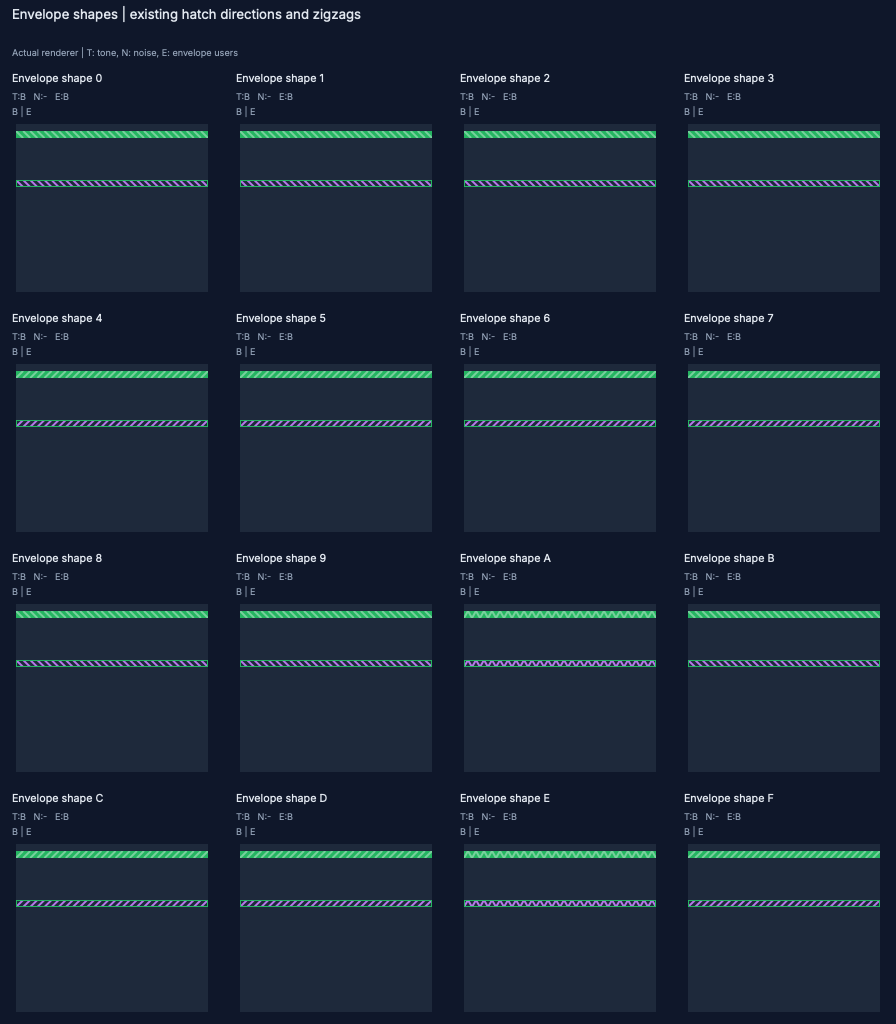
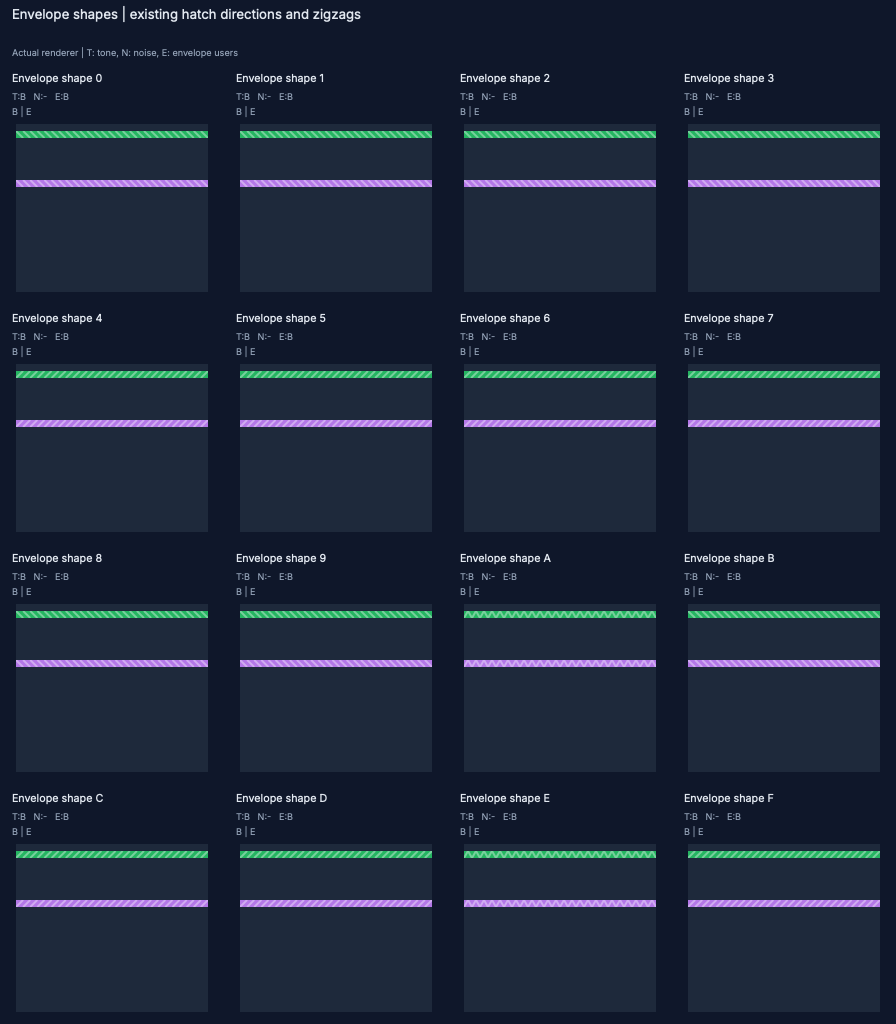
Fill the envelope pitch note and its legend swatch with hatched envelope color

diff --git a/src/gui/timeline/PsgClipComponent.test.cpp b/src/gui/timeline/PsgClipComponent.test.cpp
@@ -225,7 +225,14 @@ public:
                 if (! noteBounds.contains(x, y))
                     expect(unrelatedNoise.getPixelAt(x, y).getFloatAlpha() <= 0.3f);
 
-        beginTest("Noise fringe stops before a neighboring hollow envelope note");
+        const auto hasEnvelopeFill = [](const Image& image, int y) {
+            for (int x = 0; x < image.getWidth(); ++x)
+                if (image.getPixelAt(x, y) == Colors::PSG::Env)
+                    return true;
+            return false;
+        };
+
+        beginTest("Noise fringe stops before a neighboring envelope note");
         auto neighbors = withTones(1, 0, 2);
         neighbors.frames[0].setTonePeriod(0, 512);
         neighbors.frames[0].setEnvelopePeriod(34);
@@ -234,7 +241,7 @@ public:
         const auto noisyNeighbors = renderData(neighbors);
         int envelopeRows = 0;
         for (int y = 0; y < plainNeighbors.getHeight(); ++y) {
-            if (plainNeighbors.getPixelAt(0, y) != Colors::PSG::B)
+            if (! hasEnvelopeFill(plainNeighbors, y))
                 continue;
             ++envelopeRows;
             for (int x = 0; x < plainNeighbors.getWidth(); ++x)
@@ -270,7 +277,7 @@ public:
         const auto noNoiseDual = renderData(withTones(2, 0, 2));
         int envTop = 300, envBottom = 0;
         for (int y = 150; y < 300; ++y) {
-            if (noNoiseDual.getPixelAt(0, y) == Colors::PSG::B) {
+            if (hasEnvelopeFill(noNoiseDual, y)) {
                 envTop = jmin(envTop, y);
                 envBottom = y + 1;
             }
@@ -355,27 +362,31 @@ public:
         expect(hasEnvelopeColor, "Envelope pitch uses the shared envelope color");
         expect(hasChannelColor, "Envelope-controlled tone keeps channel B's color");
 
-        beginTest("Envelope-only channel B retains a green outline around envelope-colored hatching");
-        const uZX::PsgData envelopeOnlyData {
+        beginTest("The envelope note is envelope-colored whichever channels use it");
+        const auto envelopeB = renderData({
             {{{uZX::PsgRegType::Mixer, 0x3f}, {uZX::PsgRegType::VolumeB, 16},
               {uZX::PsgRegType::EnvelopePeriodFine, 100}, {uZX::PsgRegType::EnvelopeShape, 8}}},
             {50.0, 1}
-        };
-        const auto envelopeOnlyImage = renderData(envelopeOnlyData);
-        bool hasOutline = false, hasHatching = false;
-        for (int y = 0; y < envelopeOnlyImage.getHeight(); ++y) {
-            const auto edge = envelopeOnlyImage.getPixelAt(0, y);
-            if (! edge.isTransparent()) {
-                expect(edge == Colors::PSG::B, "The envelope note outline identifies channel B");
-                hasOutline = true;
+        });
+        const auto envelopeAC = renderData({
+            {{{uZX::PsgRegType::Mixer, 0x3f}, {uZX::PsgRegType::VolumeA, 16}, {uZX::PsgRegType::VolumeC, 16},
+              {uZX::PsgRegType::EnvelopePeriodFine, 100}, {uZX::PsgRegType::EnvelopeShape, 8}}},
+            {50.0, 1}
+        });
+        bool hasFill = false, hasHatching = false;
+        for (int y = 0; y < envelopeB.getHeight(); ++y) {
+            for (int x = 0; x < envelopeB.getWidth(); ++x) {
+                const auto color = envelopeB.getPixelAt(x, y);
+                hasFill = hasFill || color == Colors::PSG::Env;
+                hasHatching = hasHatching || color.getGreen() > Colors::PSG::Env.getGreen() + 16;
             }
-            for (int x = 1; x < envelopeOnlyImage.getWidth() - 1; ++x)
-                hasHatching = hasHatching || envelopeOnlyImage.getPixelAt(x, y) == Colors::PSG::Env;
         }
-        expect(hasOutline, "Tone-off must not hide envelope channel ownership");
-        expect(hasHatching, "Envelope hatching keeps the envelope color");
+        expect(hasFill, "The envelope note is filled with the envelope color");
+        expect(hasHatching, "The envelope note keeps its brighter hatching");
+        expect(equalImages(envelopeB, envelopeAC),
+               "Owners show on their own notes, not as a tint of the envelope note");
 
-        beginTest("Legend shows A/B/C colors and a padded outlined envelope swatch");
+        beginTest("Legend shows A/B/C colors and a padded filled envelope swatch");
         const auto header = render(0x3f, 0, 0, 0, true);
         const std::array<Colour, 3> colors {Colors::PSG::A, Colors::PSG::B, Colors::PSG::C};
         for (int ch = 0; ch < 3; ++ch) {
@@ -383,21 +394,19 @@ public:
             expect(header.getPixelAt(x, 14) == colors[static_cast<size_t>(ch)]);
             expect(header.getPixelAt(x, 15).isTransparent());
         }
-        expect(header.getPixelAt(42, 14) == Colors::PSG::Env, "E outline matches the envelope pitch color");
         expect(header.getPixelAt(42, 15).isTransparent(), "E keeps bottom padding");
-        bool hasUnfilledInterior = false;
-        bool hasEnvelopeHatching = false;
+        bool hasLegendFill = false, hasEnvelopeHatching = false;
         for (int y = 4; y < 14; ++y) {
             for (int x = 43; x < 53; ++x) {
                 const auto color = header.getPixelAt(x, y);
-                hasUnfilledInterior = hasUnfilledInterior || color.isTransparent();
+                expect(! color.isTransparent(), "E is filled");
+                hasLegendFill = hasLegendFill || color == Colors::PSG::Env;
                 hasEnvelopeHatching = hasEnvelopeHatching
-                    || (color.getFloatAlpha() > 0.0f && color.getFloatAlpha() < 0.4f
-                        && color.getRed() > color.getGreen() && color.getBlue() > color.getGreen());
+                    || color.getGreen() > Colors::PSG::Env.getGreen() + 16;
             }
         }
-        expect(hasUnfilledInterior, "E interior stays unfilled behind its label and hatching");
-        expect(hasEnvelopeHatching, "E uses colored envelope hatching behind its label");
+        expect(hasLegendFill, "E is filled with the envelope pitch color");
+        expect(hasEnvelopeHatching, "E keeps the brighter envelope hatching");
         beginTest("N legend uses the band color with vertical fading and bottom padding");
         const auto noiseCenter = header.getPixelAt(55, 9);
         expect(noiseCenter.getFloatAlpha() > 0.7f);

diff --git a/src/gui/timeline/PsgClipComponent.cpp b/src/gui/timeline/PsgClipComponent.cpp
@@ -1336,34 +1336,19 @@ void PsgClipComponent::paintNotes(Graphics& g, const PaintView& view) {
                 const auto noteColor = note.isEnvelopePitch ? Colors::PSG::Env : getChannelMaskColor(note.channelMask);
                 const auto noteRect = Rectangle<float>(x, subY, width, jmax(1.0f, subH));
 
-                if (note.isEnvelopePitch) {
-                    if (drawMods)
-                        drawEnvelopeStripes(
-                            g,
-                            noteRect.getX(),
-                            noteRect.getY(),
-                            noteRect.getWidth(),
-                            noteRect.getHeight(),
-                            envShape,
-                            noteColor
-                        );
-                    g.setColour(getChannelMaskColor(note.channelMask));
-                    g.drawRect(noteRect, 1.0f);
-                } else {
-                    g.setColour(noteColor.withAlpha(note.alpha));
-                    g.fillRect(noteRect);
+                g.setColour(noteColor.withAlpha(note.alpha));
+                g.fillRect(noteRect);
 
-                    if (drawMods && note.hasEnvMod)
-                        drawEnvelopeStripes(
-                            g,
-                            noteRect.getX(),
-                            noteRect.getY(),
-                            noteRect.getWidth(),
-                            noteRect.getHeight(),
-                            envShape,
-                            noteColor.brighter(0.8f).withAlpha(0.85f)
-                        );
-                }
+                if (drawMods && (note.hasEnvMod || note.isEnvelopePitch))
+                    drawEnvelopeStripes(
+                        g,
+                        noteRect.getX(),
+                        noteRect.getY(),
+                        noteRect.getWidth(),
+                        noteRect.getHeight(),
+                        envShape,
+                        noteColor.brighter(0.8f).withAlpha(0.85f)
+                    );
             }
         }
         if (envelopePeriodToTonePeriod(frameData.getRaw(PsgParamType::EnvelopePeriod))
@@ -1499,17 +1484,15 @@ void paintPsgLegend(Graphics& g, Rectangle<int> area) {
         area.removeFromLeft(legendSpacing);
         if (item.style == LegendStyle::Noise) {
             drawNoiseBand(g, swatch.toFloat(), 0.9f);
-        } else if (item.style == LegendStyle::Envelope) {
-            drawEnvelopeStripes(g, (float) swatch.getX(), (float) swatch.getY(),
-                                (float) swatch.getWidth(), (float) swatch.getHeight(),
-                                0x8, item.color);
-            g.setColour(item.color);
-            g.drawRect(swatch);
         } else {
             g.setColour(item.color);
             g.fillRect(swatch);
+            if (item.style == LegendStyle::Envelope)
+                drawEnvelopeStripes(g, (float) swatch.getX(), (float) swatch.getY(),
+                                    (float) swatch.getWidth(), (float) swatch.getHeight(),
+                                    0x8, item.color.brighter(0.8f).withAlpha(0.85f));
         }
-        g.setColour(item.style == LegendStyle::Channel ? Colours::black : Colours::white);
+        g.setColour(item.style == LegendStyle::Noise ? Colours::white : Colours::black);
         g.drawText(item.label, swatch, Justification::centred);
     });
 }
@@ -1552,7 +1535,7 @@ PsgLegendComponent::PsgLegendComponent() {
 }
 
 void PsgLegendComponent::paint(Graphics& g) {
-    // The envelope and noise swatches are see-through, drawn for the dark body.
+    // The noise swatch is see-through, drawn for the dark body.
     g.setColour(Colors::Theme::backgroundAlt);
     g.fillRoundedRectangle(getLocalBounds().toFloat(), 2.0f);
     paintPsgLegend(g, getLocalBounds().reduced(1));

diff --git a/docs/psg-visualization.md b/docs/psg-visualization.md
@@ -11,7 +11,7 @@ Each image is painted by `PsgClipComponent::paintNotes()`, the same code used in
 | Orange, green, blue-violet | Channel A, B, C |
 | Filled channel-colored note | Tone pitch; opacity follows fixed volume |
 | Filled note with brighter channel-colored hatching | Tone pitch with envelope-controlled volume |
-| Envelope-colored hatching with a channel-colored outline | Shared envelope pitch; outline identifies its users |
+| Envelope-colored note with brighter envelope-colored hatching | Shared envelope pitch |
 | Faint gray band | Shared noise period |
 | Channel-colored rectangles outside note silhouettes | Noise enabled on those visible pitch sources |
 | Channel-colored rectangles around the noise-band center | Noise ownership when that channel has no visible pitched mark |
@@ -20,7 +20,7 @@ Each image is painted by `PsgClipComponent::paintNotes()`, the same code used in
 
 ![The A/B/C/E/N legend](images/psg-visualization/legend.png)
 
-The envelope color is purple. An envelope-controlled tone keeps its channel color. The separate envelope-pitch mark uses purple hatching.
+The envelope color is purple. An envelope-controlled tone keeps its channel color. The separate envelope-pitch mark is a purple note with brighter purple hatching.
 
 Hatching indicates envelope shape: attack-first shapes use rising diagonals, decay-first shapes use falling diagonals, and shapes A/E use zigzags. This is a shape cue, not a trace of the instantaneous envelope level. One-shot shapes also receive a schematic pitch mark when their period lies within the display window.
 
@@ -34,7 +34,7 @@ Hatching indicates envelope shape: attack-first shapes use rising diagonals, dec
 | 1 | 0 | 0 | Tone pitch only |
 | 0 | 1 | 0 | Noise band with scattered channel-colored ownership rectangles |
 | 1 | 1 | 0 | Tone pitch and noise band |
-| 0 | 0 | 1 | Envelope pitch with a green B outline, even though tone is off |
+| 0 | 0 | 1 | Envelope pitch only; nothing shows that B uses it |
 | 1 | 0 | 1 | Tone pitch and shared envelope pitch; they may match or differ |
 | 0 | 1 | 1 | Envelope pitch and envelope-controlled noise |
 | 1 | 1 | 1 | Tone pitch, shared envelope pitch, and noise |
@@ -49,17 +49,7 @@ In this flag sheet, envelope pitch stays fixed. The tone moves to meet it in the
 
 There is one shared envelope-pitch mark for all channels using the envelope. Two envelope-enabled channels with tone off produce **one E mark**, not two independent envelope pitches.
 
-The outline uses combination colors:
-
-| Envelope users | Outline |
-| --- | --- |
-| A | Orange |
-| B | Green |
-| C | Blue-violet |
-| A+B | Yellow |
-| A+C | Pink |
-| B+C | Cyan |
-| A+B+C | Pale slate |
+The E mark looks the same whichever channels use it. Its users show on their own marks: a tone with envelope-controlled volume is hatched, and a channel's noise decorates the E mark when that channel has no visible tone.
 
 Noise ownership follows a per-channel priority:
 
@@ -79,7 +69,7 @@ The next sheet shows envelope ownership, noise alone, and noise around tones for
 
 ![All seven channel groups: envelope ownership, noise alone, and noise outside tones](images/psg-visualization/ownership.png)
 
-**Ambiguity:** combination-colored outlines require learning another palette. They do not directly show individual owners as clearly as the channel-colored noise rectangles do.
+**Ambiguity:** a channel that uses the envelope with tone and noise both off leaves no mark of its own, so the E mark alone does not say which channels use it. They do not directly show individual owners as clearly as the channel-colored noise rectangles do.
 
 ## Matching and different pitches
 
@@ -89,7 +79,7 @@ The following sheet includes all **15 equality groupings** of A tone, B tone, C 
 
 The renderer divides overlapping notes into thin vertical slices within the pitch row. Tone slices are painted before the envelope slice at an exactly matching pitch. If there is less than one pixel per slice, marks are painted on top of each other instead.
 
-**Ambiguity:** the thin slices can lose their pattern, and a one-pixel outline can cover the envelope-colored interior entirely. A picture may therefore fail to reveal every enabled source.
+**Ambiguity:** the thin slices can lose their pattern. A picture may therefore fail to reveal every enabled source.
 
 ## Level of detail
 

diff --git a/CHANGELOG.md b/CHANGELOG.md
@@ -16,6 +16,9 @@ All notable changes to µZX are documented here. µZX currently supports AY-3-89
 - AY and Scope use 0.5× display gain by default
 - Fixed: held PSG notes show no seams between frames and line up with the grid when frames are a pixel wide or wider
 
+### PSG clips
+- The envelope pitch is a filled, hatched purple note instead of an outline; the E legend swatch is filled too
+
 ### Tracker modules
 - Open and import ZX Spectrum tracker modules like PSG files: Pro Tracker 1–3 (`.pt1`, `.pt2`, `.pt3`), Vortex Tracker II (`.vt2`), Sound Tracker (`.stc`, `.st1`, `.st3`), Sound Tracker Pro, ASC Sound Master, SQ-Tracker, Pro Sound Creator, Pro Sound Maker, Global Tracker and Fast Tracker, played by zxtune up to the loop
 - Turbo Sound modules (PT3 pairs, Vortex files with a module per chip) open on a track per chip, as one tune
